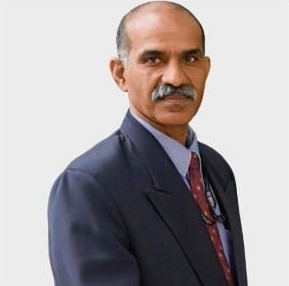
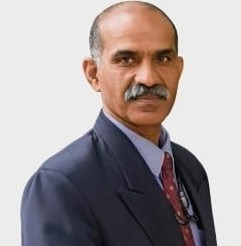
corrected image height and view angle

diff --git a/src/pages/msme.jsx b/src/pages/msme.jsx
@@ -152,7 +152,7 @@ export default function MSME({ onLoad }) {
                     <h5 className="fw-bold mb-1 text-primary-gradient">{speaker.name}</h5>
                     <p className="text-secondary small mb-0 fw-semibold ls-1">{speaker.role}</p>
 
-                    <div className="mt-3">
+                    <div className="mt-1">
                       <div className="d-flex align-items-center justify-content-center justify-content-md-start gap-2 mb-2">
                         <span className="topic-badge">Topic</span>
                         <div className="badge-line"></div>
@@ -414,8 +414,8 @@ export default function MSME({ onLoad }) {
         }
 
         .speaker-image-container {
-          width: 100px;
-          height: 100px;
+          width: 120px;
+          height: 120px;
           border-radius: 50%;
           overflow: hidden;
           border: 3px solid #f08815;
